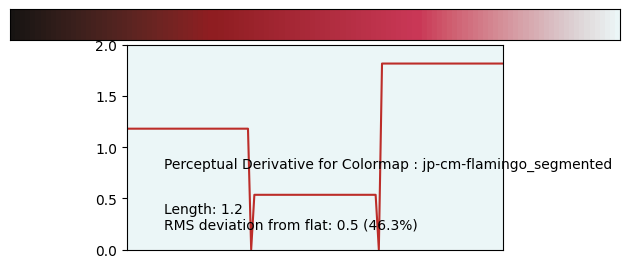
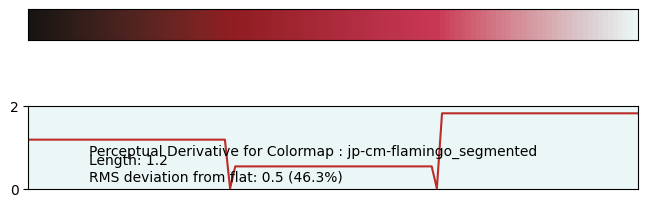
update readme

Changed region(s): [[0.0, 0.029, 0.9952, 0.9565]]

diff --git a/gen/gen.py b/gen/gen.py
@@ -109,7 +109,7 @@ def calculatePD(gradient, RGB, name):
     ax.get_xaxis().set_visible(False)
     ax.margins(0.0)
     ax.set_facecolor(aijiro)
-    ax.set_aspect(16*delta_ymax(local_derivs))
+    ax.set_aspect(16/delta_ymax(local_derivs))
     return fig
 
 def gen_cmaps(cmaps,segmented=False):
